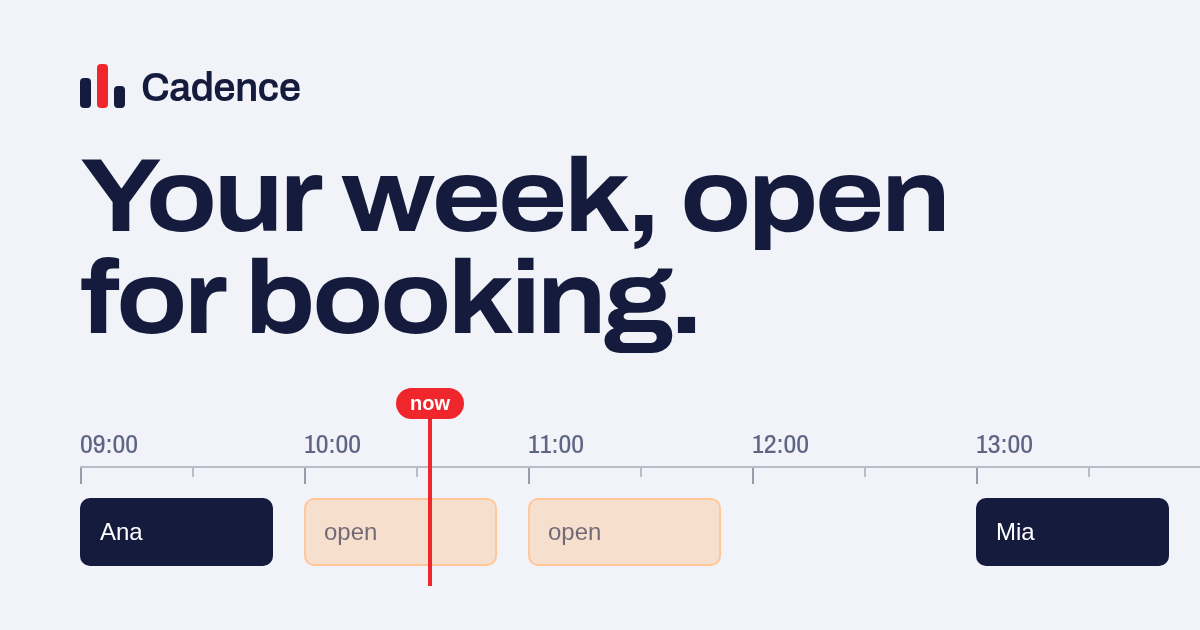
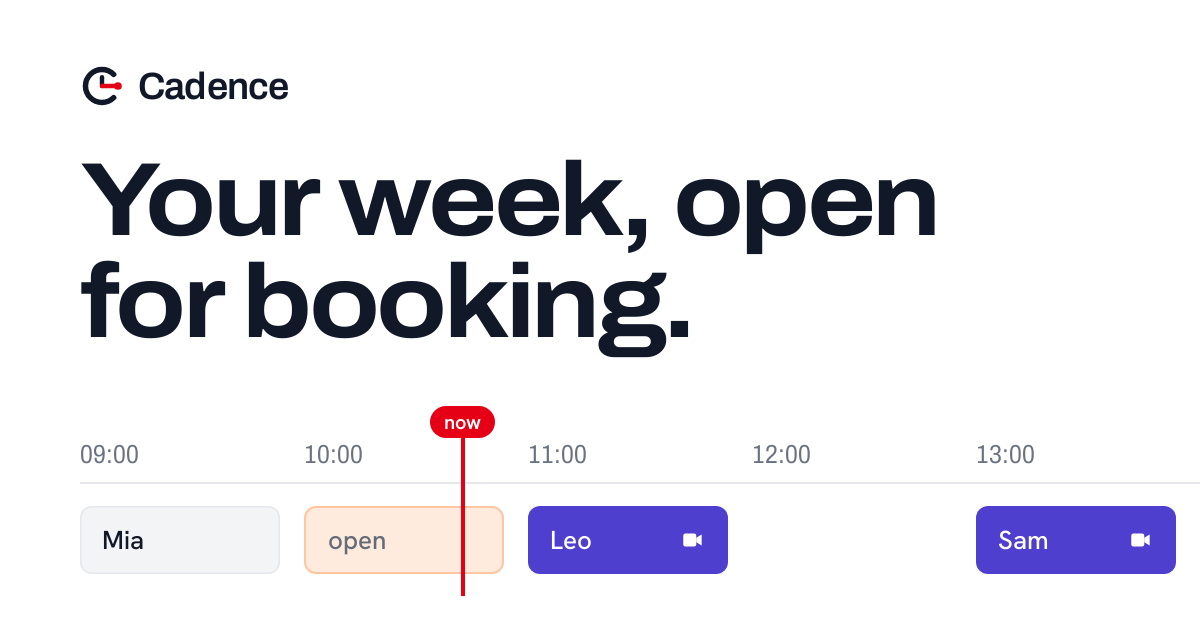
feat: new link preview, touch-safe demo, skip link (Plan 56)

diff --git a/frontend/src/domains/shared/public-layout.tsx b/frontend/src/domains/shared/public-layout.tsx
@@ -79,6 +79,9 @@ function MobileMenu({ signedIn }: { signedIn: boolean }) {
   );
 }
 
+/** Where "Skip to content" lands. */
+const MAIN_ID = "main";
+
 const FOOTER_LINK = "text-muted-foreground hover:text-foreground";
 
 export function PublicLayout({
@@ -93,6 +96,12 @@ export function PublicLayout({
   const scrolled = useScrolled();
   return (
     <div className="flex min-h-svh flex-col">
+      <a
+        href={`#${MAIN_ID}`}
+        className="sr-only z-50 rounded-md bg-primary text-sm font-medium text-primary-foreground focus:not-sr-only focus:fixed focus:top-3 focus:left-3 focus:px-3 focus:py-2"
+      >
+        Skip to content
+      </a>
       <header
         className={cn(
           "sticky top-0 z-20 border-b transition-[background-color,border-color] duration-200",
@@ -111,7 +120,13 @@ export function PublicLayout({
                     How it works
                   </Link>
                 </Button>
-                <Button variant="ghost" size="sm" className="max-sm:hidden" asChild>
+                <Button
+                  variant="ghost"
+                  size="sm"
+                  // On the pricing page, the link says so.
+                  className="max-sm:hidden data-[status=active]:bg-accent"
+                  asChild
+                >
                   <Link to={ROUTES.pricing}>Pricing</Link>
                 </Button>
               </>
@@ -138,7 +153,9 @@ export function PublicLayout({
           </nav>
         </div>
       </header>
-      <main className="flex-1">{children}</main>
+      <main id={MAIN_ID} tabIndex={-1} className="flex-1 outline-none">
+        {children}
+      </main>
       <footer className="border-t">
         <div className="mx-auto grid max-w-[82rem] grid-cols-2 gap-10 px-4 py-12 text-sm sm:grid-cols-[minmax(0,1fr)_auto_auto] sm:gap-16 sm:px-6">
           <div className="col-span-2 sm:col-span-1">

diff --git a/frontend/src/domains/landing/booking-demo.tsx b/frontend/src/domains/landing/booking-demo.tsx
@@ -173,11 +173,17 @@ function Cursor({ step, boxes }: { step: Step; boxes: Boxes }) {
         transitionDuration: `${GLIDE_MS}ms, 300ms`,
       }}
     >
-      {/* Remounted every beat, so the press replays once the glide ends. */}
+      {/* Remounted every beat, so the press replays once the glide ends. A
+          touch screen has no arrow, so there it is a fingertip ring. */}
+      <span
+        key={`tap-${step}`}
+        className="hidden size-7 -translate-x-1/2 -translate-y-1/2 rounded-full border-2 border-foreground/60 bg-foreground/15 pointer-coarse:block motion-safe:animate-cursor-click"
+        style={{ animationDelay: `${GLIDE_MS}ms` }}
+      />
       <svg
         key={step}
         viewBox="0 0 20 20"
-        className="size-5 drop-shadow-sm motion-safe:animate-cursor-click"
+        className="size-5 drop-shadow-sm pointer-coarse:hidden motion-safe:animate-cursor-click"
         style={{ animationDelay: `${GLIDE_MS}ms` }}
       >
         <path
@@ -464,8 +470,9 @@ export function BookingDemo() {
     <div
       ref={stage}
       aria-hidden="true"
-      onMouseEnter={() => setHovered(true)}
-      onMouseLeave={() => setHovered(false)}
+      // Only a mouse pauses it: a tap on a phone would otherwise pause it for good.
+      onPointerEnter={(event) => event.pointerType === "mouse" && setHovered(true)}
+      onPointerLeave={(event) => event.pointerType === "mouse" && setHovered(false)}
       // Stacked, the panes keep a readable width instead of stretching to the edge.
       className="relative grid max-w-2xl gap-4 select-none lg:max-w-none lg:grid-cols-[minmax(0,7fr)_minmax(0,5fr)] lg:gap-6"
     >

diff --git a/frontend/src/domains/landing/landing-page.tsx b/frontend/src/domains/landing/landing-page.tsx
@@ -114,6 +114,11 @@ export function LandingPage() {
             </div>
           </div>
           <div className="mt-12 motion-safe:animate-rise motion-safe:[animation-delay:240ms] sm:mt-16">
+            <p className="sr-only">
+              A guest opens Ana's booking link, picks Tuesday at 10:00 in Lisbon, and
+              confirms. The call appears in Ana's day at 11:00 Berlin time, with a Google
+              Meet link.
+            </p>
             <BookingDemo />
           </div>
         </div>

diff --git a/docs/PLAN_56_PUBLIC_REDESIGN.md b/docs/PLAN_56_PUBLIC_REDESIGN.md
@@ -55,6 +55,16 @@ Same tokens and type as Plan 8. No new dependencies, no backend change.
 - Auth forms sit at the top on phones instead of floating mid-screen.
 - Swept at 320 to 2560px in light and dark with no horizontal overflow.
 
+## Polish
+
+- `public/og.png` (the link preview) redrawn with the current clock logo
+  and the dusk bookings. The old one still had the bar-chart mark.
+- The demo pauses only under a mouse, because a tap on a phone used to
+  pause it for good. Touch screens see a fingertip ring instead of an arrow.
+- A screen-reader sentence describes the demo, which is `aria-hidden`.
+- Public pages have a "Skip to content" link, and the header's Pricing link
+  shows when it is the current page.
+
 ## Tests
 
 Visual change only: lint, typecheck, knip, vitest, build. Checked with
